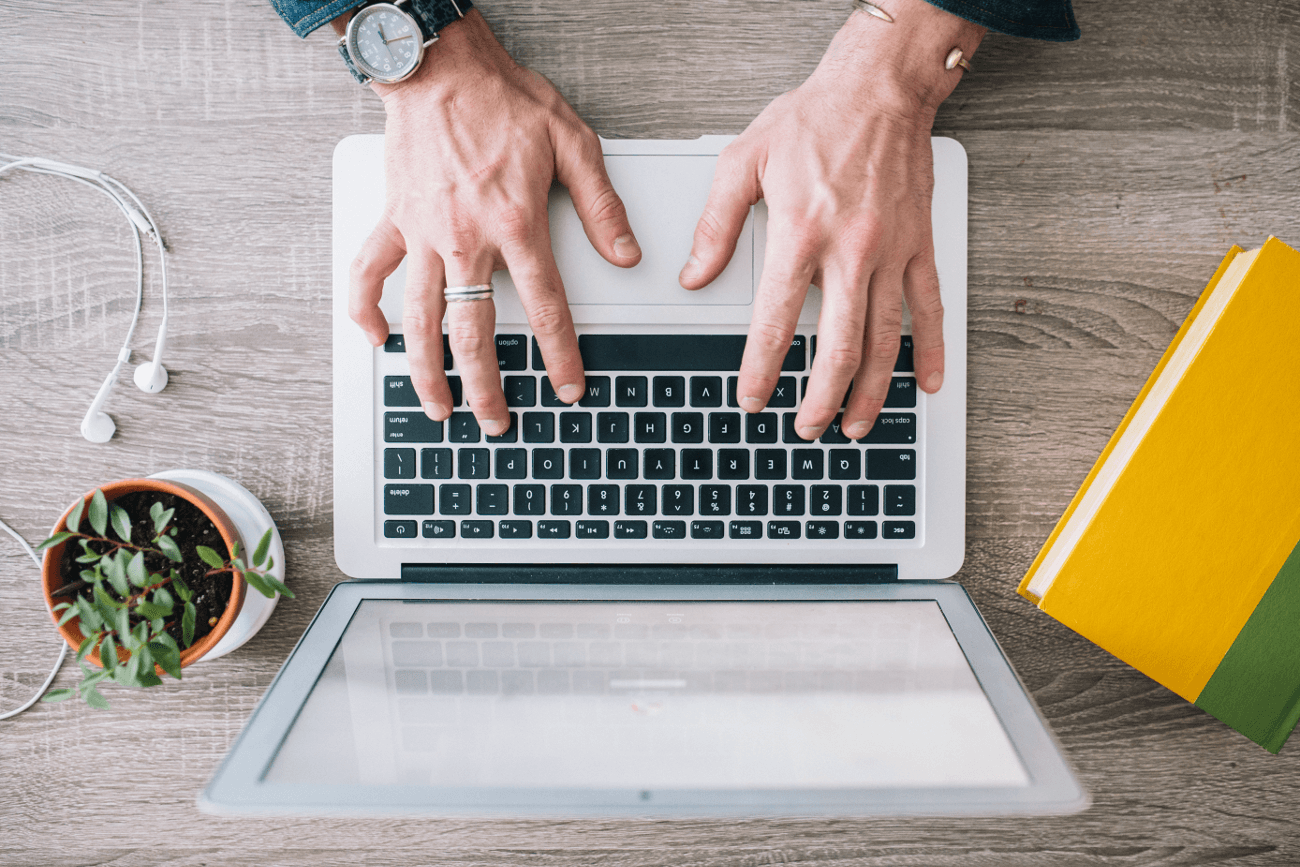
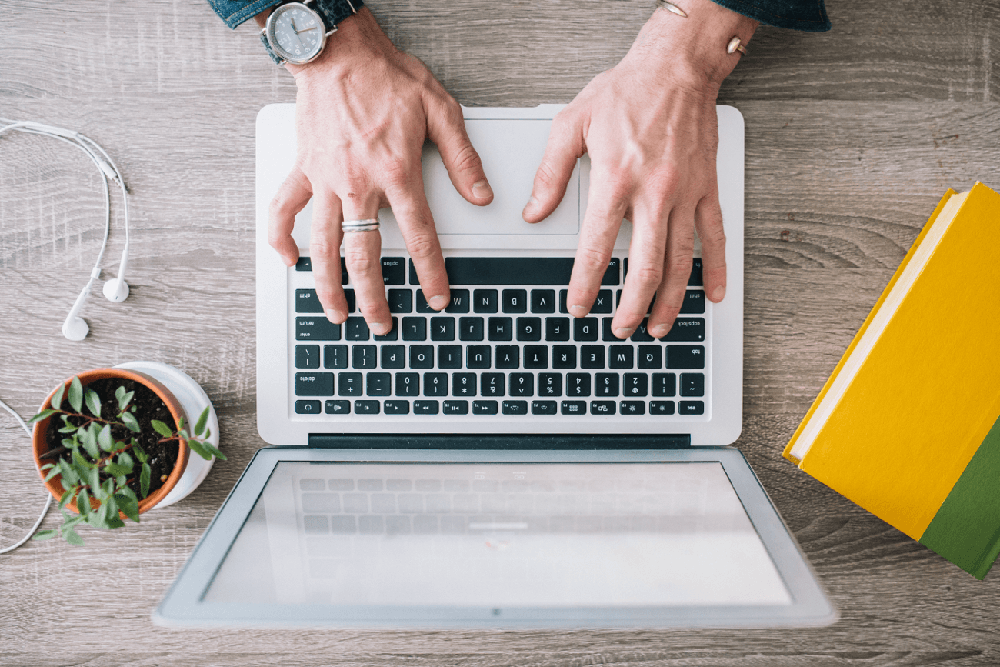
new image

diff --git a/css/style.css b/css/style.css
@@ -199,7 +199,7 @@ padding: 100px 0 60px;
 }
 
 .header-parallax {
-  background: url(../images/header/parallax_bg-min.png) fixed no-repeat center center;
+  background: url(../images/header/parallax_bg-min.jpg) fixed no-repeat center center;
   margin: auto;
   background-size: cover;
 }
